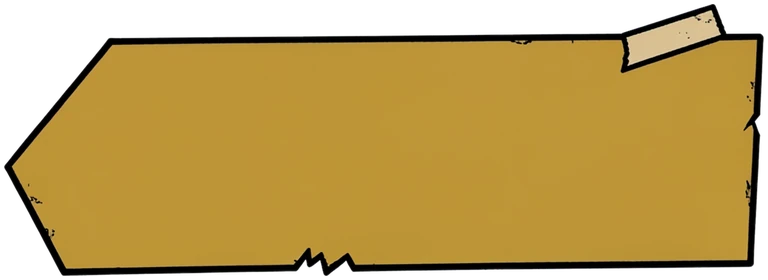
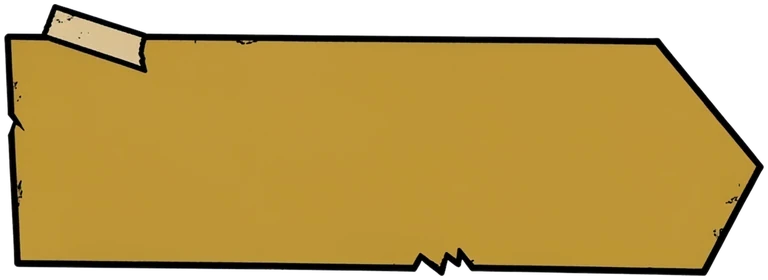
Paint the turn button, top buttons, ability, ore chip, panels and menu buttons with the cardboard art
The gold and red plates are mirrored so they point forward. Each painted plate takes
over from the drawn one only once its picture has loaded; the upright phone keeps the
turn button's step around the ability.

Claude-Session: https://claude.ai/code/session_01YJRQCJqz7q1VrrXEP9CrGy

Changed region(s): [[0.0, 0.0, 1.0, 1.0]]

diff --git a/src/style.css b/src/style.css
@@ -724,3 +724,44 @@ i.ico { display: inline-block; font-style: normal; }
   .confetti { display: none; }
   .win-ball, .overlay.win .end-panel { animation: none; }
 }
+
+/* ---------- painted cardboard plates and icons (public/assets/ui): each takes over from the drawn one once its picture loads */
+.art-btn_main .tb-plate { clip-path: none; background: var(--btn_main) center / 100% 100% no-repeat; transition: filter 0.2s; }
+.art-btn_main .tb-plate::before, .art-btn_main .tb-plate::after { display: none; }
+.art-btn_main .turn-btn { filter: drop-shadow(0 5px 0 rgba(0, 0, 0, 0.5)); }
+.art-btn_main .turn-btn b { transform: rotate(-1.5deg); }
+.art-btn_main .turn-btn.idle .tb-plate { filter: saturate(0.45) brightness(0.7); }
+.art-btn_main .turn-btn.idle b { color: #1c120a; }
+.art-btn_main .turn-btn.lit { filter: drop-shadow(0 5px 0 rgba(0, 0, 0, 0.5)) drop-shadow(0 0 16px rgba(255, 200, 80, 0.8)); animation: lit-art 1.6s ease-in-out infinite; }
+.art-btn_main .turn-btn.confirm .tb-plate { filter: hue-rotate(-16deg) saturate(1.5); }
+.art-btn_main .turn-btn.wait .tb-plate { filter: grayscale(0.75) brightness(0.62); }
+.art-btn_red .turn-btn.enemy .tb-plate { background-image: var(--btn_red); filter: none; }
+@keyframes lit-art { 50% { filter: drop-shadow(0 5px 0 rgba(0, 0, 0, 0.5)) drop-shadow(0 0 28px rgba(255, 210, 90, 1)); } }
+@media (prefers-reduced-motion: reduce) { .art-btn_main .turn-btn.lit { animation: none; } }
+/* the upright phone keeps the step round the ability: the card is cut there, and the ink edge follows the cut */
+@media (orientation: portrait) and (max-width: 700px) {
+  .art-btn_main .tb-plate { clip-path: var(--plate); }
+  .art-btn_main .turn-btn { filter: var(--outline) drop-shadow(0 4px 0 rgba(0, 0, 0, 0.5)); }
+  .art-btn_main .turn-btn.lit { filter: var(--outline) drop-shadow(0 4px 0 rgba(0, 0, 0, 0.5)) drop-shadow(0 0 14px rgba(255, 200, 80, 0.8)); animation: none; }
+}
+
+.art-btn_tile .top-btns { filter: drop-shadow(0 3px 0 rgba(0, 0, 0, 0.5)); }
+.art-btn_tile .ibtn { clip-path: none; background: var(--btn_tile) center / 100% 100% no-repeat; padding: 5px; }
+.art-btn_tile .ibtn:hover { background: var(--btn_tile) center / 100% 100% no-repeat; filter: brightness(1.18); }
+
+.art-btn_dark .ore-chip { clip-path: none; background: var(--btn_dark) center / 100% 100% no-repeat; padding: 4px 18px 4px 10px; filter: drop-shadow(0 3px 0 rgba(0, 0, 0, 0.5)); }
+
+.art-btn_gem .ability { filter: drop-shadow(0 4px 0 rgba(0, 0, 0, 0.5)); background: var(--btn_gem) center / contain no-repeat; }
+.art-btn_gem .ability::before, .art-btn_gem .ability::after { display: none; }
+.art-btn_gem .ability:disabled { filter: drop-shadow(0 4px 0 rgba(0, 0, 0, 0.5)) saturate(0.4) brightness(0.65); }
+.art-btn_gem .ability.full { filter: drop-shadow(0 4px 0 rgba(0, 0, 0, 0.5)) drop-shadow(0 0 12px #c9a8ff); }
+.art-btn_gem .ability.on { filter: drop-shadow(0 4px 0 rgba(0, 0, 0, 0.5)) drop-shadow(0 0 14px var(--ab)); }
+.art-btn_gem .ability b { padding: 2px 5px; background: rgba(18, 12, 9, 0.6); }
+
+/* panels: the map stands tall, everything else lies wide */
+.art-panel .panel { background: var(--panel) center / 100% 100% no-repeat; border: 0; outline: 0; border-radius: 0; box-shadow: none; filter: drop-shadow(0 10px 24px rgba(0, 0, 0, 0.6)); padding: 30px 34px; }
+.art-panel_tall .panel.map-panel { background-image: var(--panel_tall); padding: 26px 26px 22px; }
+.art-btn_dark .btn:not(.round) { background: var(--btn_dark) center / 100% 100% no-repeat; border: 0; border-radius: 0; box-shadow: none; padding: 8px 16px; filter: drop-shadow(0 2px 0 rgba(0, 0, 0, 0.5)); }
+.art-btn_dark .btn:not(.round):hover { filter: drop-shadow(0 2px 0 rgba(0, 0, 0, 0.5)) brightness(1.2); }
+.art-btn_main .btn.big { background: var(--btn_main) center / 100% 100% no-repeat; border: 0; border-radius: 0; box-shadow: none; color: #1c120a; padding: 12px 28px; }
+.art-btn_main .tab.on { background: var(--btn_main) center / 100% 100% no-repeat; color: #1c120a; }

diff --git a/src/assets.ts b/src/assets.ts
@@ -49,7 +49,13 @@ export async function loadSprites(onLoad: () => void): Promise<void> {
       sprites.set(key, { img, facing, standee: makeStandee(img, facing, fig / HERO_FIG, tint) });
     })),
     ...Object.entries(env).map(([key, file]) => load(file, img => envArt.set(key, img))),
-    ...Object.entries(ui).map(([key, file]) => load(file, img => uiArt.set(key, img))),
+    ...Object.entries(ui).map(([key, file]) => load(file, img => {
+      uiArt.set(key, img);
+      // the stylesheet paints a plate once its picture is in: as var(--btn_main) under the class art-btn_main
+      const root = document.documentElement;
+      root.style.setProperty('--' + key, `url("${img.src}")`);
+      root.classList.add('art-' + key);
+    })),
     // the wall graffiti fonts, Latin and Cyrillic letters both, before the room is drawn with them
     ...GRAFFITI_FONTS.map(f => document.fonts?.load(f, 'WTF ЖОПА').then(onLoad, () => {})),
   ]);
